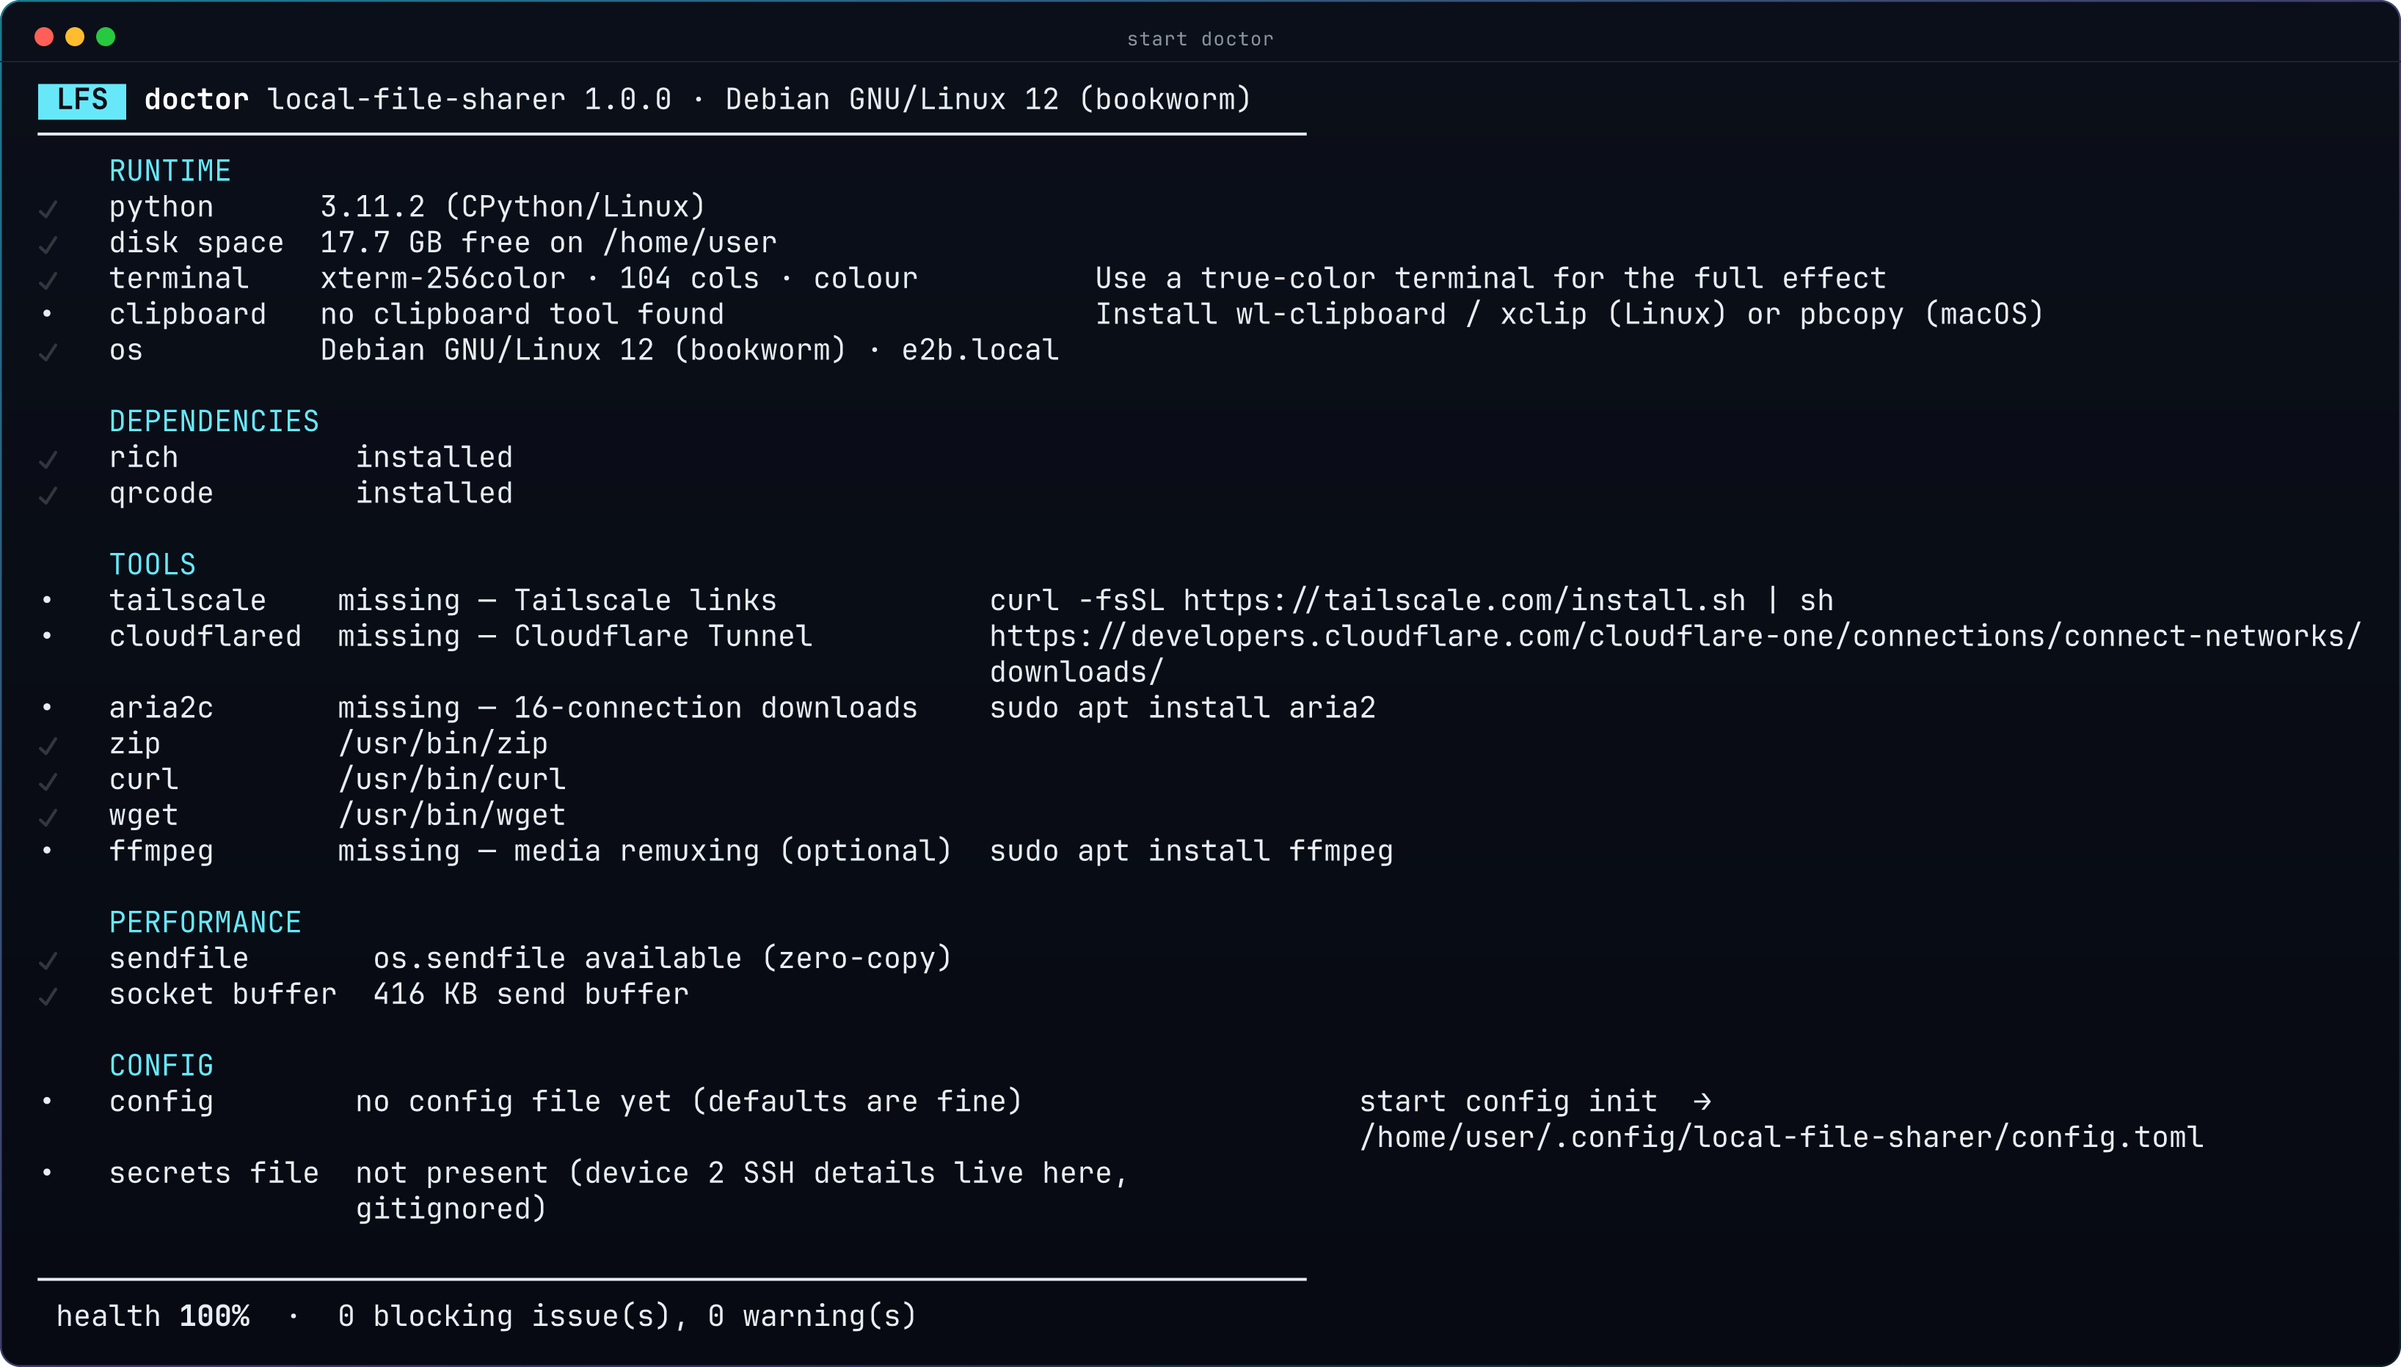
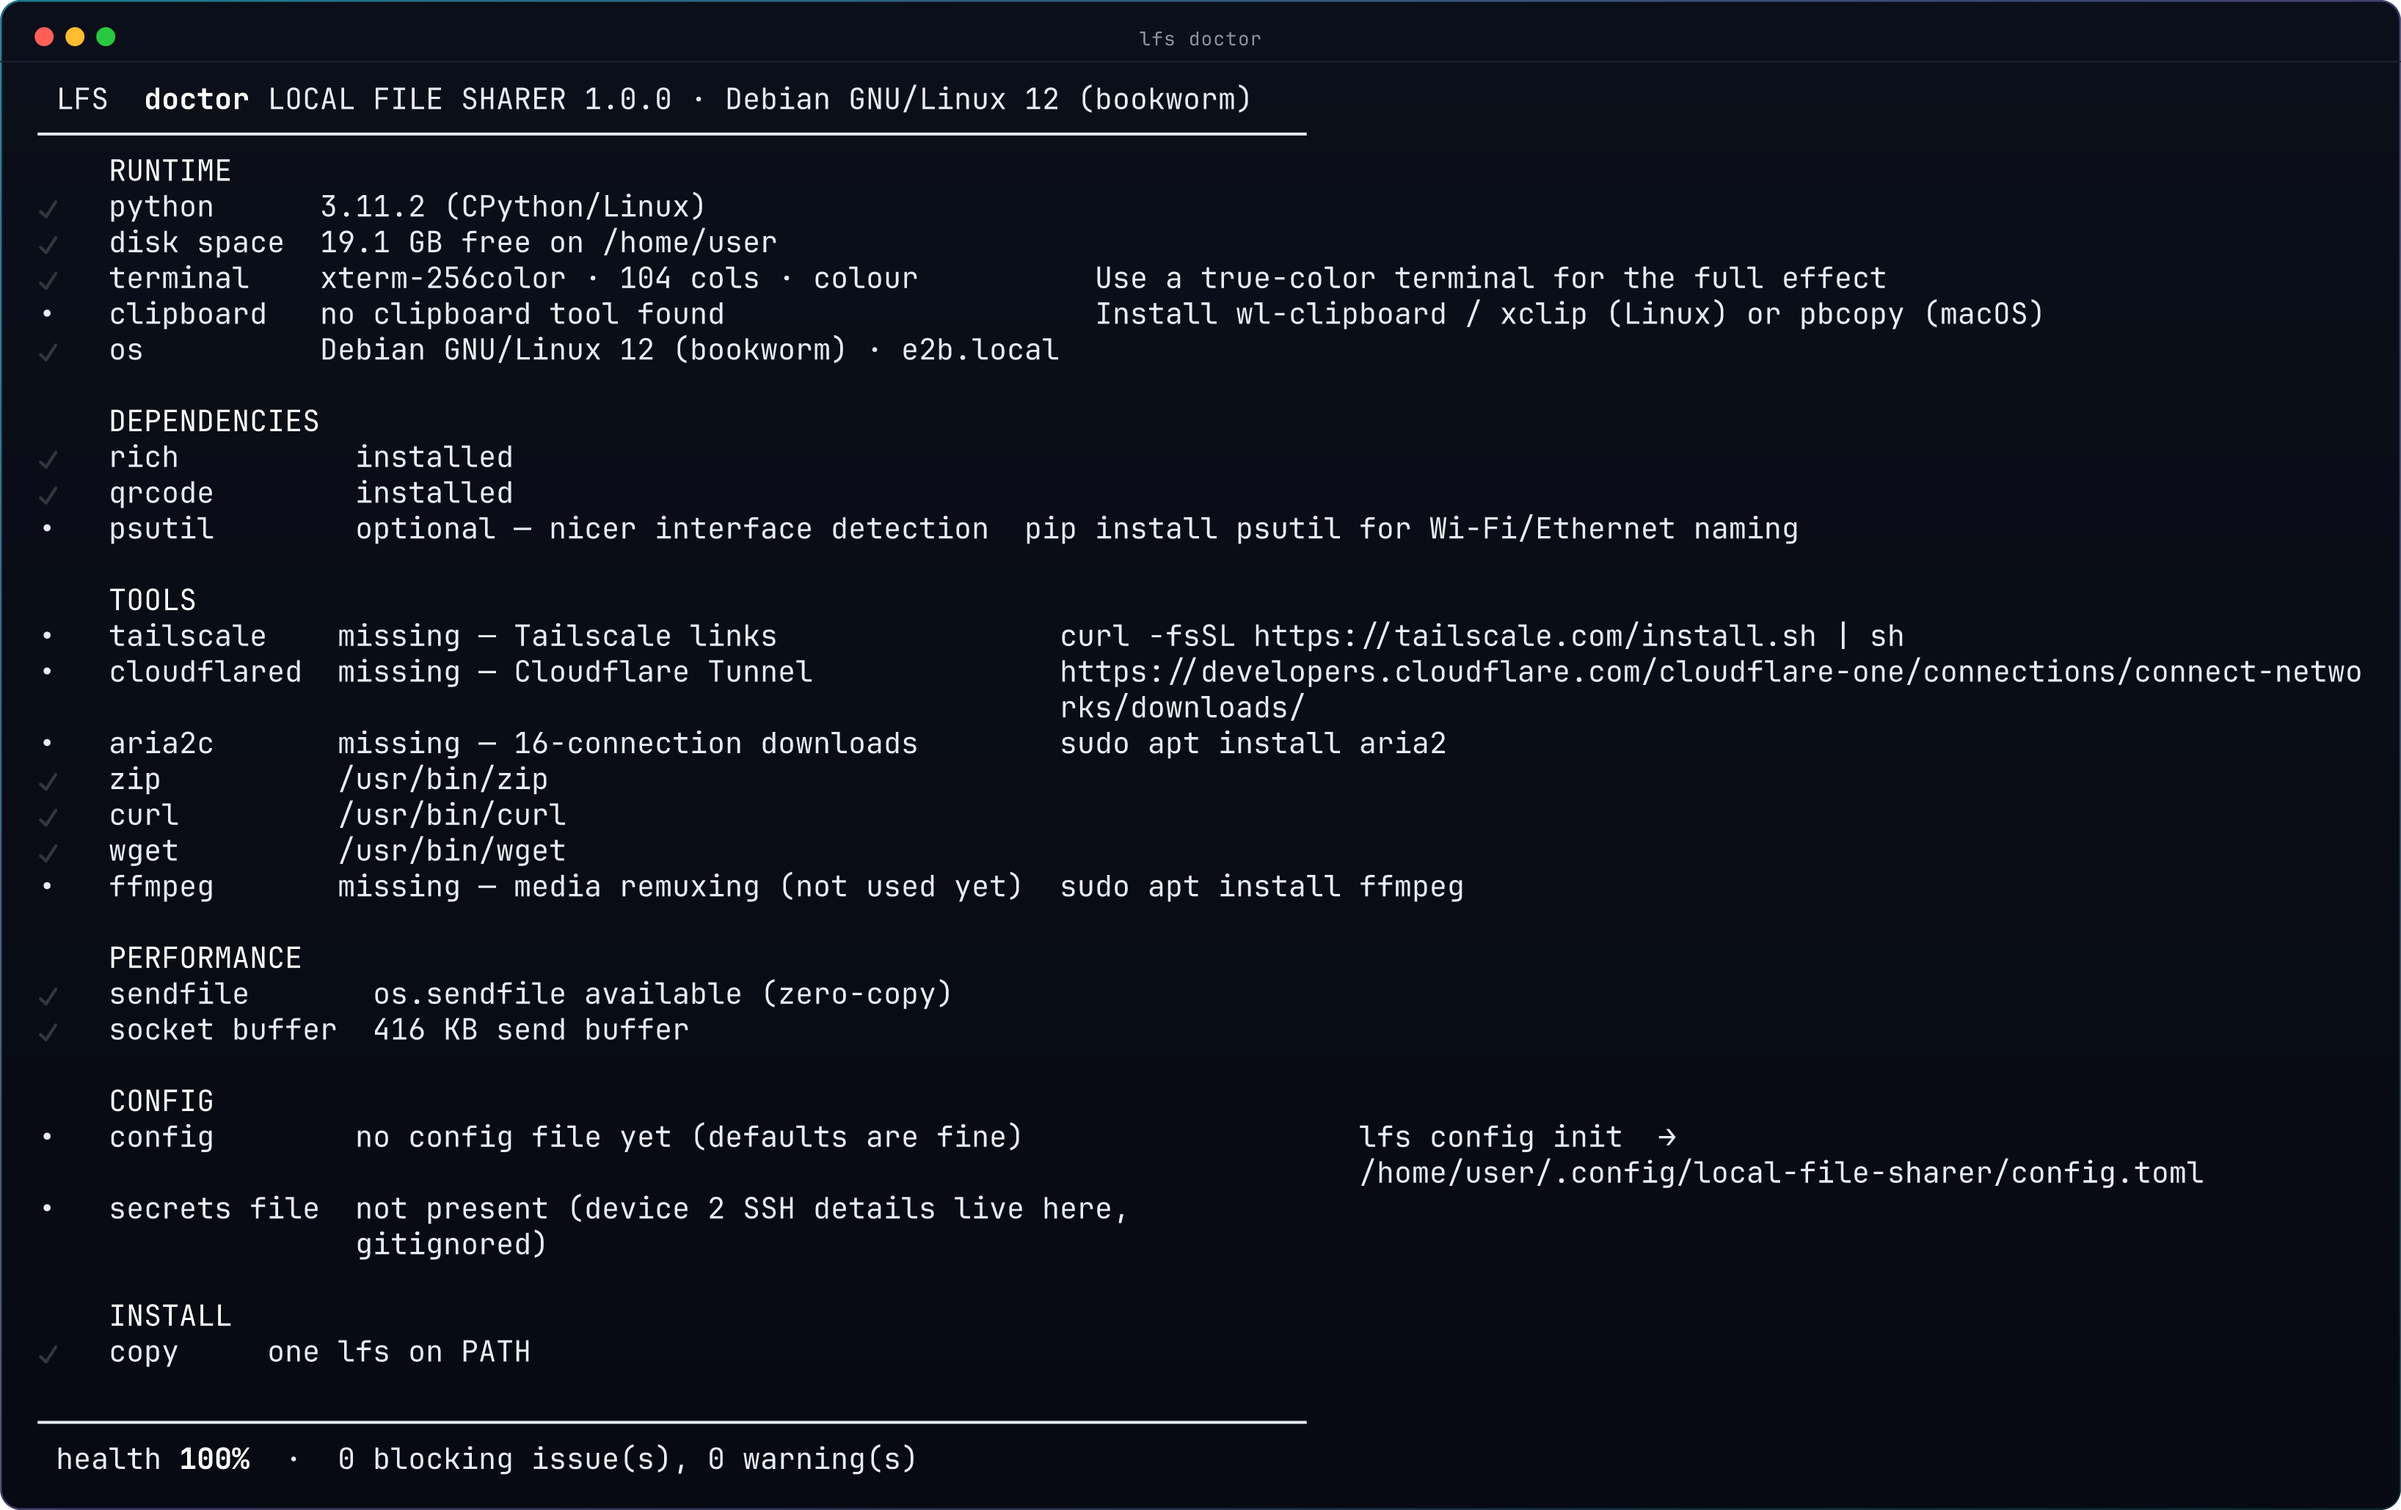
Regenerate every terminal asset from the code that draws them
The committed demo.gif showed a program that no longer exists. Its menu
read "`start <path>` skips the menu · `start doctor` checks your setup"
and "switch dark / light / neon"; the program says "`lfs <path>` shares
straight away · `?` for more commands" and "switch dark / light / mono",
and the header reads LOCAL FILE SHARER, not local-file-sharer. Neither
old string exists anywhere in src/ any more -- the gif had simply not
been rebuilt since the rename. cli-menu.png was stale in the same way,
and cli-banner/cli-picker/cli-ready/cli-dashboard/cli-doctor had all
drifted too.

Regenerated all of them from the real renderables.

Being able to regenerate is only half a fix: a gif is pixels, so nothing
in a diff or a test could see the drift. demo_gif.py now also writes the
menu it drew to docs/assets/demo-menu.txt, and a test re-renders the
menu and compares. Verified by putting the old strings back into
menu.py: the test fails, and passes again once restored. The test also
snapshots the console/theme globals it swaps, because leaving them
changed made two unrelated dashboard tests fail at a distance.

diff --git a/tests/test_screenshots.py b/tests/test_screenshots.py
@@ -97,3 +97,71 @@ def test_grid_measures_every_glyph_as_at_least_one_cell():
     rows = termsvg.to_grid(Text("a\u200bb界"), width=8)
     assert all(cell.width >= 1 for row in rows for cell in row)
     assert "".join(c.char for c in rows[0]).startswith("a")
+
+
+def test_the_gif_shows_the_menu_the_code_draws(monkeypatch):
+    """The demo gif has to depict the menu this code renders today.
+
+    A gif is pixels: nothing in a diff or a test can read it, so it silently
+    advertised ``start <path>`` and ``switch dark / light / neon`` long after
+    the program had been renamed to say ``lfs <path>`` and ``light / mono``.
+    ``demo_gif.py`` now also writes the menu as text; this compares that
+    record against a fresh render, so the animation cannot drift again.
+    """
+    recorded = REPO / "docs" / "assets" / "demo-menu.txt"
+    if not recorded.exists():  # pragma: no cover - committed alongside the gif
+        pytest.skip("docs/assets/demo-menu.txt is not present")
+
+    import io
+
+    from rich.console import Console
+
+    from local_file_sharer import menu
+    from local_file_sharer.config import load_config
+    from local_file_sharer.state import State
+    from local_file_sharer.ui.console import set_console, set_theme
+    from local_file_sharer.ui.theme import build_theme
+
+    # conftest.py sets NO_COLOR=1 for every test; that switches the menu to its
+    # ASCII icon set, which is not what the gif shows. The recording was made
+    # with colour enabled, so this comparison has to be too.
+    monkeypatch.delenv("NO_COLOR", raising=False)
+    monkeypatch.delenv("LFS_ASCII_ICONS", raising=False)
+
+    # set_console/set_theme/_STATE are module globals; leaving them swapped
+    # makes later tests render against this console and fail at a distance.
+    from local_file_sharer.ui import console as console_module
+
+    monkeypatch.setattr(console_module, "_console", console_module._console, raising=False)
+    monkeypatch.setattr(console_module, "_theme", console_module._theme, raising=False)
+    monkeypatch.setattr(menu, "_STATE", menu._STATE, raising=False)
+
+    theme = build_theme("dark", "cyan")
+    set_theme(theme)
+    buffer = io.StringIO()
+    con = Console(
+        file=buffer, width=96, force_terminal=False, emoji=True,
+        highlight=False, soft_wrap=False, color_system=None,
+    )
+    set_console(con)
+    state = State.load(None)
+    state.data["totals"] = {
+        "bytes_sent": 128_849_018_880, "files_sent": 412, "shares": 37, "downloads": 96,
+    }
+    menu._STATE = state  # noqa: SLF001 - the renderer reads the module global
+    ctx = menu.MenuContext(config=load_config(respect_env=False), state=state, animate=False)
+    con.print(menu.render_menu(ctx))
+    today = buffer.getvalue()
+
+    # The clock and hostname differ per machine; every other line must match.
+    def stable(text: str) -> list[str]:
+        out = []
+        for line in text.splitlines():
+            if "·" in line and ("LFS" in line or "LOCAL FILE SHARER" in line):
+                continue
+            out.append(line)
+        return out
+
+    assert stable(today) == stable(recorded.read_text(encoding="utf-8")), (
+        "docs/assets/demo.gif is stale — rerun tools/screenshots/demo_gif.py"
+    )

diff --git a/tools/screenshots/demo_gif.py b/tools/screenshots/demo_gif.py
@@ -93,6 +93,18 @@ def main() -> None:
     frames.append(menu_frame)
     frames.append(menu_frame)
 
+    # Record the menu as text beside the gif. A gif is pixels: nothing in a
+    # diff or a test can read it, so this one silently advertised
+    # "start <path>" and "switch dark / light / neon" for months after the
+    # program said "lfs <path>" and "light / mono". The test renders the menu
+    # with these same console settings and compares, so the animation cannot
+    # drift again. (Rich swaps emoji for text when not a terminal, which would
+    # otherwise make the recording depend on how it was captured.)
+    plain = Console(file=io.StringIO(), width=WIDTH, force_terminal=False,
+                    emoji=True, highlight=False, soft_wrap=False, color_system=None)
+    plain.print(menu.render_menu(ctx))
+    (ASSETS / "demo-menu.txt").write_text(plain.file.getvalue(), encoding="utf-8")
+
     durations = [70] * 14 + [400, 60, 900, 2200]
     OUT.parent.mkdir(parents=True, exist_ok=True)
     frames[0].save(

diff --git a/tools/screenshots/README.md b/tools/screenshots/README.md
@@ -26,10 +26,24 @@ uses clip-paths resvg ignores, and cannot draw emoji.
 
 ## Regenerating
 
+Any change to a menu label, a description or a theme name makes every terminal
+asset stale, and nothing about a `.gif` shows up in a diff — `demo.gif` once
+advertised ``start <path>`` and ``switch dark / light / neon`` long after the
+program said ``lfs <path>`` and ``light / mono``. So:
+
 ```bash
 python -m venv .venv && . .venv/bin/activate
 pip install -e ".[dev]" pillow resvg-py fonttools
+
+python tools/screenshots/demo_gif.py     # gif + docs/assets/demo-menu.txt
+python tools/screenshots/cli_shots.py    # the cli-*.png screenshots
+python tools/screenshots/check_assets.py # tofu, leaking paths, missing files
 ```
+
+`demo_gif.py` also writes the menu it drew as plain text next to the gif, and
+`tests/test_screenshots.py` re-renders the menu and compares the two. That test
+fails when the code changes and the assets were not regenerated, which is the
+only way to catch this without a human looking at a picture.
 
 Fonts (not committed — they are large and separately licensed under the OFL):
 
